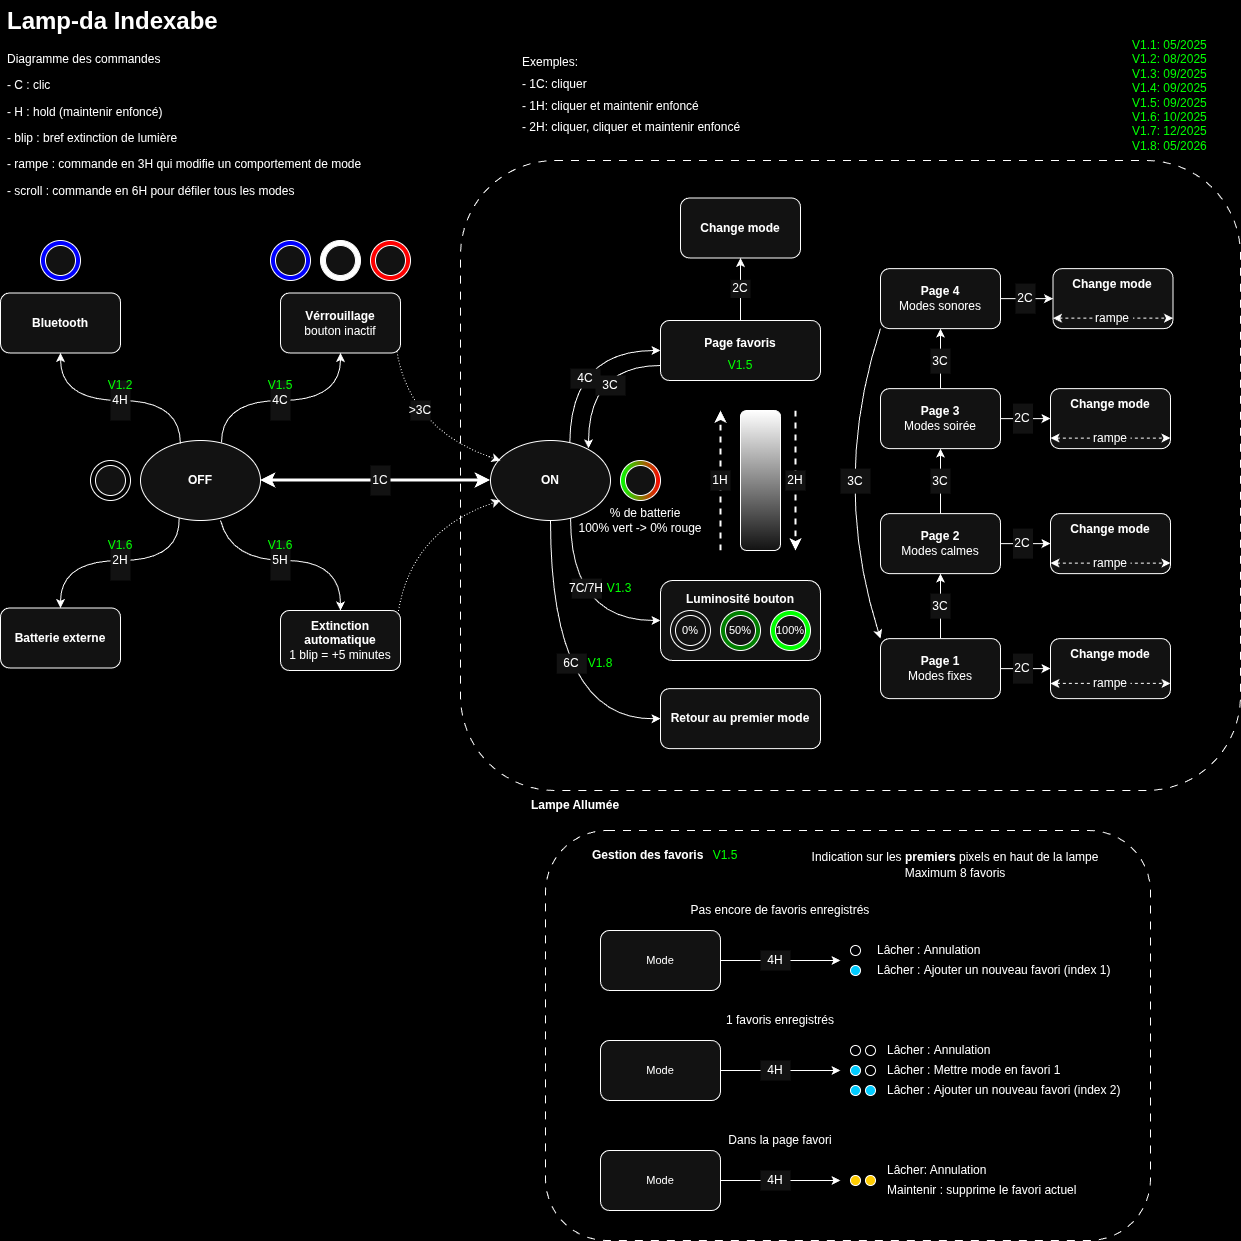
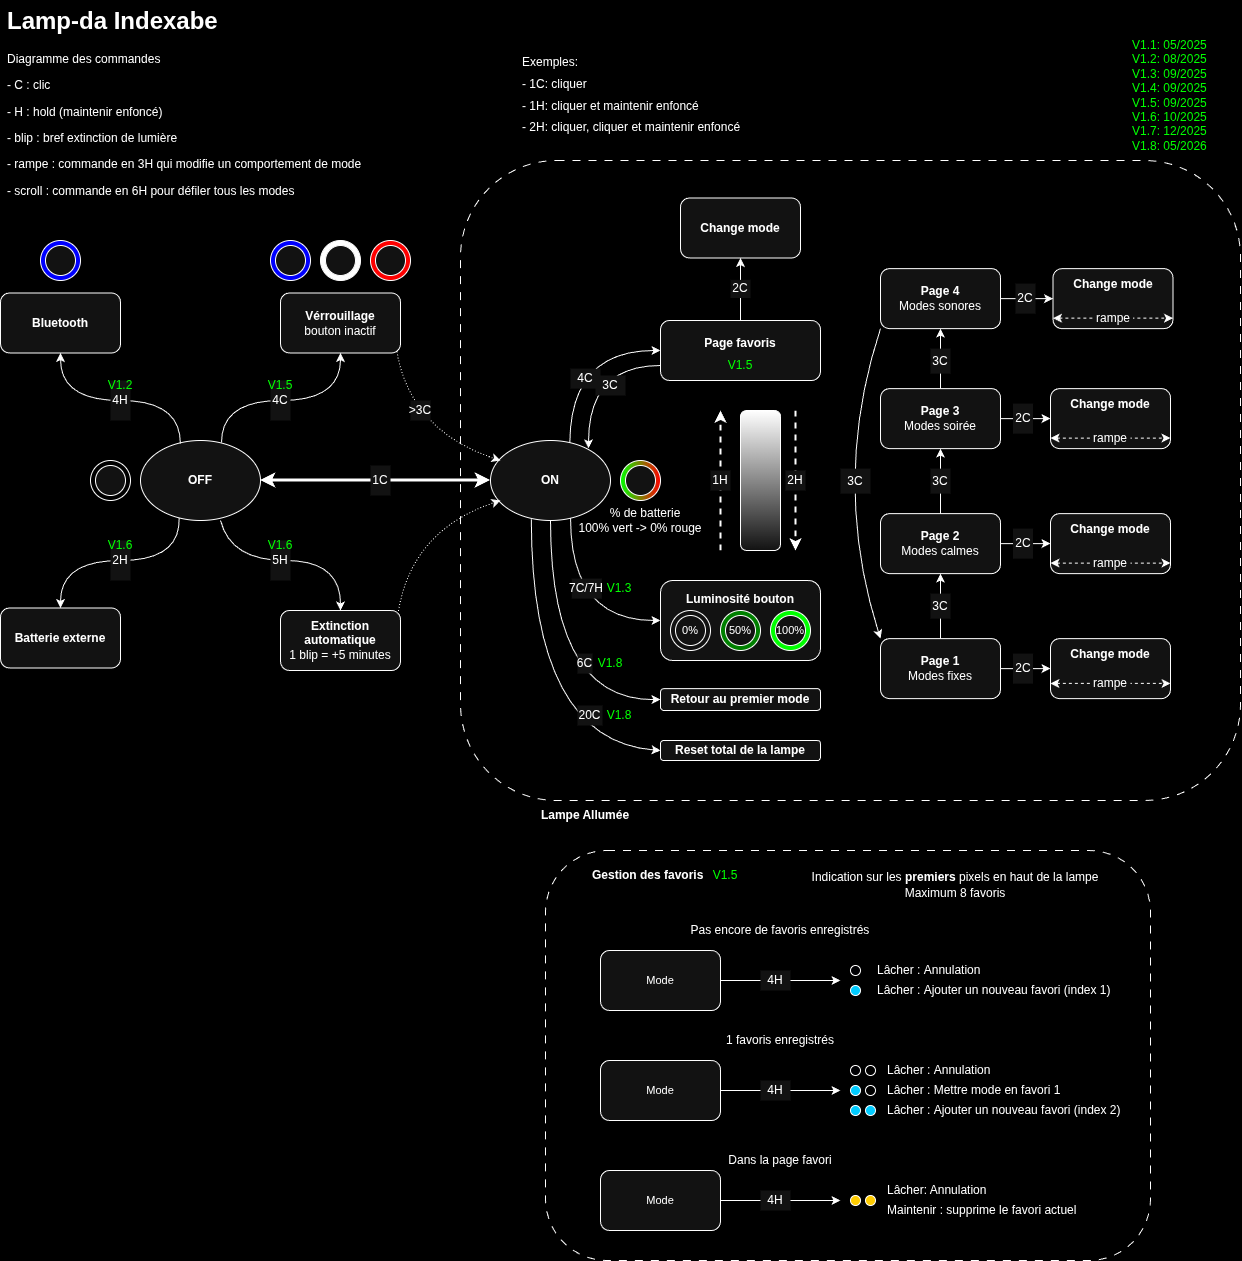
Add 20 clicks to fully reset the lamp

diff --git a/src/modes/user/default_behavior.hpp b/src/modes/user/default_behavior.hpp
@@ -228,6 +228,25 @@ bool button_hold(const uint8_t clicks, const bool isEndOfHoldEvent, const uint32
         }
         break;
       }
+
+    case 20: // 20 clicks + hold: reset the whole system and stored parameters
+      {
+        if (not isEndOfHoldEvent and holdDuration > 0)
+        {
+          auto manager = get_context();
+          if (manager.overlay_animate_ramp(
+                      holdDuration, 5000, modes::colors::PaletteGradient<modes::colors::Red, modes::colors::Red>))
+          {
+            // reset the file system and memory
+            platform::lampda_print("clearing the whole file format");
+            physical::fileSystem::clear_internal_fs();
+
+            // shutdown the lamp
+            const bool shouldSkipMemoryWrite = true;
+            logic::behavior::internal::handle_shutdown_state(shouldSkipMemoryWrite);
+          }
+        }
+      }
   }
 
   return false;

diff --git a/src/system/logic/behavior.cpp b/src/system/logic/behavior.cpp
@@ -655,7 +655,7 @@ void handle_post_output_light_state()
   mainMachine.skip_timeout();
 }
 
-void handle_shutdown_state()
+void handle_shutdown_state(const bool shouldSaveParameters)
 {
   // detach all interrupts, to prevent interruption of shutdown
   platform::gpio::DigitalPin::detach_all();
@@ -695,9 +695,12 @@ void handle_shutdown_state()
 
   statistics::signal_output_off();
 
-  // save the current config to a file
-  // (takes some time so call it when the lamp appear to be shutdown already)
-  write_parameters();
+  if (shouldSaveParameters)
+  {
+    // save the current config to a file
+    // (takes some time so call it when the lamp appear to be shutdown already)
+    write_parameters();
+  }
 
   // power the system off
   true_power_off();

diff --git a/src/system/logic/behavior.h b/src/system/logic/behavior.h
@@ -60,8 +60,9 @@ namespace internal {
 
 /**
  * \brief DO NOT USE: shutdown the lamp immediatly. only for emmergency/special cases
+ * \param[in] shouldSaveParameters If False, no parameters will be written to memory
  */
-void handle_shutdown_state();
+void handle_shutdown_state(const bool shouldSaveParameters = true);
 
 } // namespace internal
 